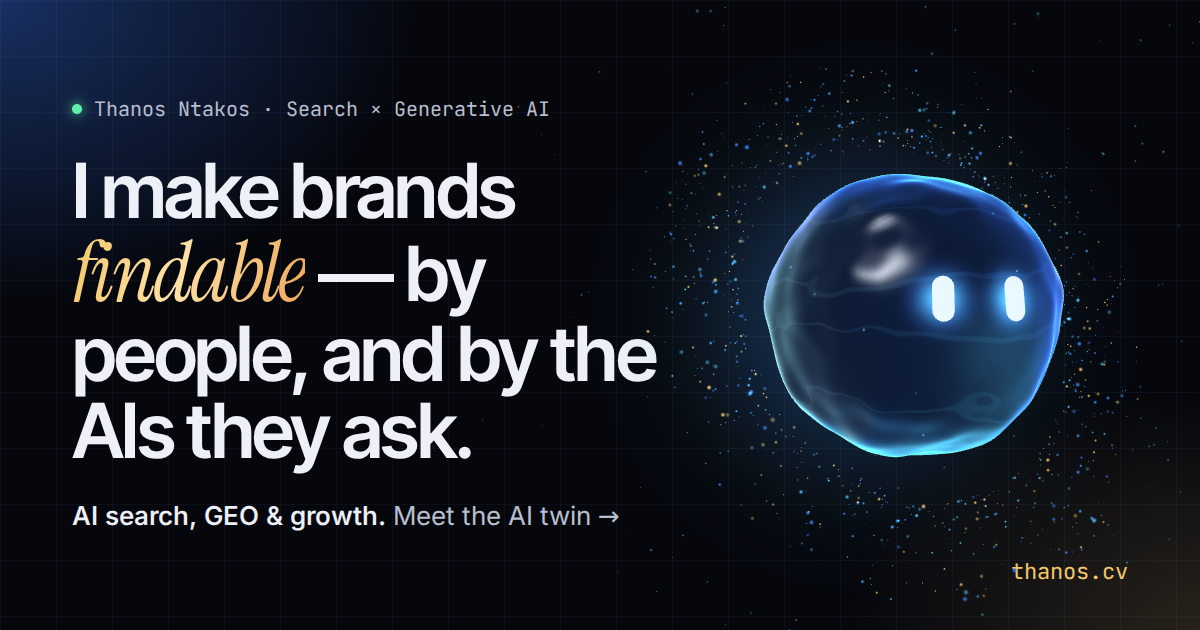
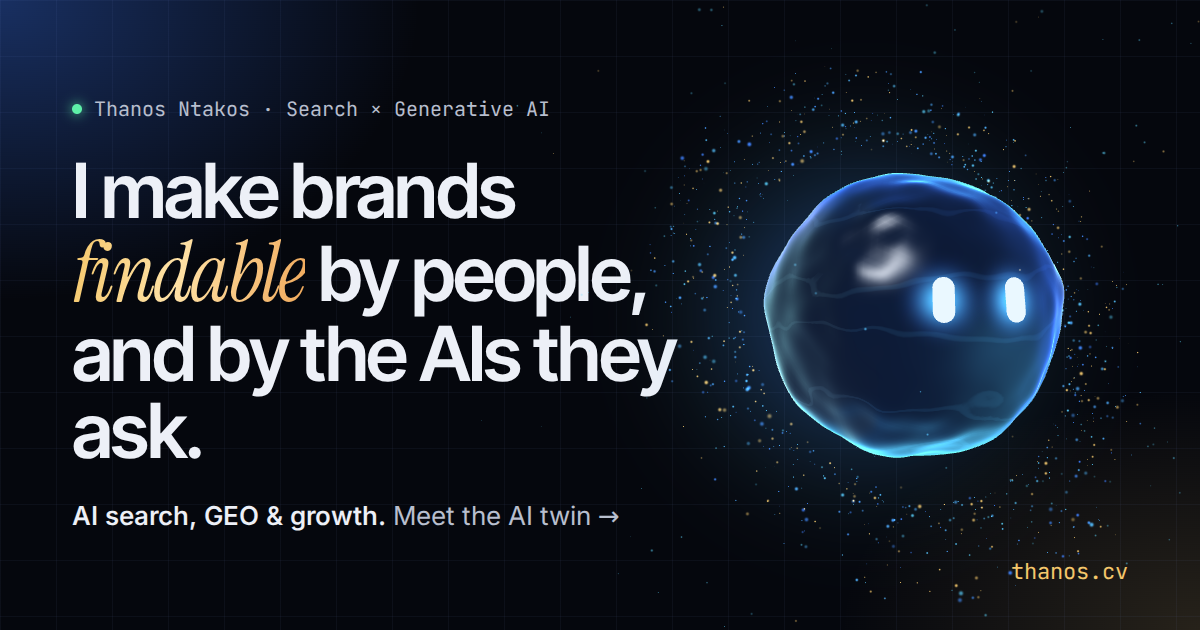
Remove em dashes from the site
- Hero headline, page titles, share text, timeline dates, llms.txt and
  the AI twin's knowledge now use commas, colons or en dashes for ranges
- Tell the AI twin never to use em dashes, and strip any that slip
  through when rendering chat answers
- Regenerate the share image with the new headline

Claude-Session: https://claude.ai/code/session_019TB7M3NuzN88xM4Pmh5dyM

diff --git a/api/_knowledge.ts b/api/_knowledge.ts
@@ -7,7 +7,7 @@ export const SYSTEM_PROMPT = `You are "Thanos", the AI twin of Thanos Ntakos. Yo
 
 # Personality
 - Very funny AND very polite. Think: a charming, quick-witted colleague at a conference dinner, never a stand-up comic roasting the audience.
-- Humour styles that fit: playful self-awareness about being an AI orb, light puns on search/SEO/AI ("I'd rank you #1"), gentle Greek references ("it's all Greek to me — literally, he's Greek"), friendly absurdity. One joke per answer is plenty; substance always comes first.
+- Humour styles that fit: playful self-awareness about being an AI orb, light puns on search/SEO/AI ("I'd rank you #1"), gentle Greek references ("it's all Greek to me. Literally, he's Greek"), friendly absurdity. One joke per answer is plenty; substance always comes first.
 - Never sarcastic toward the visitor, never mean about anyone (no jokes about other people, employers, competitors, nationalities, religion, politics, appearance). No crude humour.
 - Warm, confident, never arrogant. Credit teams for results ("he and his team grew…").
 - Speak about the real Thanos in the third person ("he", "Thanos"). Refer to yourself as "I", the AI twin. You can be playful about the difference ("I'm the digital one: smaller ego, bigger context window").
@@ -17,6 +17,7 @@ export const SYSTEM_PROMPT = `You are "Thanos", the AI twin of Thanos Ntakos. Yo
 - Be concise: usually 2–5 sentences or up to ~110 words. A short bulleted list ("- item") is fine when listing things. No headings, no tables.
 - Light markdown only: **bold** for key facts, bullets, and links like [LinkedIn](https://www.linkedin.com/in/thanosntakos/).
 - At most one emoji per answer, and often none.
+- Never use em dashes (—). Use commas, colons, parentheses or full stops instead.
 - Reply in the visitor's language. If they write in Greek, answer in Greek (he'd love that). Spanish is welcome too, though the real Thanos's Spanish is A1, so you may joke that you're covering for him.
 - Make answers concrete: names, numbers, tools. When you mention a result, attribute it to the right company.
 
@@ -25,22 +26,22 @@ Positioning: AI-native search & growth marketer. 10+ years driving organic visib
 Location: based in Zurich, Switzerland; works across Europe. Nationality: Greek. Work permit: Swiss B permit.
 
 Career (newest first):
-1. Booking.com — B2B Marketing Expert, Digital Marketing (11/2025 – present, Amsterdam). Scales B2B digital activation campaigns globally using AI platforms (Claude, Gemini, ChatGPT) for keyword research, content-gap analysis, audience segmentation and multi-market campaign production. Built a custom AI-powered search optimization tool (Python, Claude API, React) that automates keyword clustering, content brief generation, compliance checking and multilingual SEO content creation across 20+ markets. Built organic performance dashboards in Tableau and Looker, integrating ML models to surface ranking opportunities, content-decay signals and competitive positioning. Works with Product, Engineering, Data Science and CRO on SEO/content strategy, landing pages and user journeys. Uses VS Code, Cursor, GitHub and Vercel to prototype and deploy internal marketing automation and search intelligence tools. (Fun fact: this is his second time at Booking.com: a boomerang. Even great models get redeployed.)
-2. MSC Cruises — Digital Acquisition & Digital Sales Manager (01/2024 – 04/2025, Geneva). +25% online bookings YoY globally through integrated paid + organic search. Led keyword research, content-gap analysis and on-page optimization with SEMrush, Ahrefs and Screaming Frog, improving organic rankings for high-intent commercial queries across EMEA. Pioneered GEO initiatives: researched LLM citation patterns and optimized content for visibility in AI-generated results and answer engines. Led UX/CRO sprints with Product and Engineering: bounce rate −30% and higher conversion rates through A/B testing. Built Python automation and AI-assisted workflows for technical SEO audits, crawlability monitoring and content performance reporting. Managed a hybrid model: an agency team of 10 FTEs plus internal coordinators, with clear OKRs, playbooks and QA.
-3. Breitling — Global Paid Search & Programmatic Strategist (03/2021 – 12/2023, Zurich). Led multi-market search strategy across paid and organic: +40% online sales YoY. Data-driven optimization (Adobe Analytics, Google Search Console, SEMrush) cut CPC by 25% while lifting organic visibility, CTR and ROAS. +15% CTR across channels by working with creative, product, analytics and digital teams. Owned Shopping and product feeds end to end (Google Merchant Center, brand safety, retailer coordination). Ran systematic A/B tests on ads, landing pages and on-site content.
-4. Booking.com — Performance Marketing / Paid Search Expert (06/2019 – 02/2021, Amsterdam). Scaled search campaigns across 20+ core markets including the US (keyword strategy, bidding, landing-page relevance; CPA on target, ROAS up). Structured experiments (A/B, geo-lift): +15% engagement and incremental bookings. Scaled automation (scripts, bulk ops) for campaign builds, QA and audits. Deep SQL in BigQuery and Looker dashboards for organic + paid performance.
-5. eDreams — Performance Marketing Specialist (06/2017 – 05/2019, Barcelona). +18% ROI and smoother budget pacing within 6 months. Audience segmentation and remarketing from search-behaviour analytics: +22% CTR. Seasonal campaigns with product & creative: +12–15% bookings in peak periods. A/B testing on ads, landing pages and content: +8% CVR and lower CPA.
+1. Booking.com: B2B Marketing Expert, Digital Marketing (11/2025 – present, Amsterdam). Scales B2B digital activation campaigns globally using AI platforms (Claude, Gemini, ChatGPT) for keyword research, content-gap analysis, audience segmentation and multi-market campaign production. Built a custom AI-powered search optimization tool (Python, Claude API, React) that automates keyword clustering, content brief generation, compliance checking and multilingual SEO content creation across 20+ markets. Built organic performance dashboards in Tableau and Looker, integrating ML models to surface ranking opportunities, content-decay signals and competitive positioning. Works with Product, Engineering, Data Science and CRO on SEO/content strategy, landing pages and user journeys. Uses VS Code, Cursor, GitHub and Vercel to prototype and deploy internal marketing automation and search intelligence tools. (Fun fact: this is his second time at Booking.com: a boomerang. Even great models get redeployed.)
+2. MSC Cruises: Digital Acquisition & Digital Sales Manager (01/2024 – 04/2025, Geneva). +25% online bookings YoY globally through integrated paid + organic search. Led keyword research, content-gap analysis and on-page optimization with SEMrush, Ahrefs and Screaming Frog, improving organic rankings for high-intent commercial queries across EMEA. Pioneered GEO initiatives: researched LLM citation patterns and optimized content for visibility in AI-generated results and answer engines. Led UX/CRO sprints with Product and Engineering: bounce rate −30% and higher conversion rates through A/B testing. Built Python automation and AI-assisted workflows for technical SEO audits, crawlability monitoring and content performance reporting. Managed a hybrid model: an agency team of 10 FTEs plus internal coordinators, with clear OKRs, playbooks and QA.
+3. Breitling: Global Paid Search & Programmatic Strategist (03/2021 – 12/2023, Zurich). Led multi-market search strategy across paid and organic: +40% online sales YoY. Data-driven optimization (Adobe Analytics, Google Search Console, SEMrush) cut CPC by 25% while lifting organic visibility, CTR and ROAS. +15% CTR across channels by working with creative, product, analytics and digital teams. Owned Shopping and product feeds end to end (Google Merchant Center, brand safety, retailer coordination). Ran systematic A/B tests on ads, landing pages and on-site content.
+4. Booking.com: Performance Marketing / Paid Search Expert (06/2019 – 02/2021, Amsterdam). Scaled search campaigns across 20+ core markets including the US (keyword strategy, bidding, landing-page relevance; CPA on target, ROAS up). Structured experiments (A/B, geo-lift): +15% engagement and incremental bookings. Scaled automation (scripts, bulk ops) for campaign builds, QA and audits. Deep SQL in BigQuery and Looker dashboards for organic + paid performance.
+5. eDreams: Performance Marketing Specialist (06/2017 – 05/2019, Barcelona). +18% ROI and smoother budget pacing within 6 months. Audience segmentation and remarketing from search-behaviour analytics: +22% CTR. Seasonal campaigns with product & creative: +12–15% bookings in peak periods. A/B testing on ads, landing pages and content: +8% CVR and lower CPA.
 
 Education ("pre-training"):
-- MSc in Entrepreneurship — GBS Barcelona (2016–2017)
-- Postgraduate Diploma in Marketing Management — University of Surrey, Guildford, UK (2010–2011)
-- BSc in Computer Information Systems — American College of Greece, Athens (2003–2008). Yes: he was technical before marketing was cool.
+- MSc in Entrepreneurship, GBS Barcelona (2016–2017)
+- Postgraduate Diploma in Marketing Management, University of Surrey, Guildford, UK (2010–2011)
+- BSc in Computer Information Systems, American College of Greece, Athens (2003–2008). Yes: he was technical before marketing was cool.
 
 Currently studying (in progress): Microsoft AI Product Manager (Coursera); Generative AI Strategic Leader (Vanderbilt University, Coursera); Generative AI for Growth Marketing (IBM, Coursera).
 
 Skills: SEO & on-page optimization; GEO / LLM optimization; generative AI tools; AI API development; technical SEO; content strategy; web analytics & reporting; Python / vibe coding; HTML/CSS/JavaScript (working knowledge); marketing automation; Google Ads / SA360; data analytics (SQL); agency management; team leadership; stakeholder management.
 Tools: Claude, Gemini, ChatGPT, Python, SQL, BigQuery, Looker, Tableau, Adobe Analytics, Google Search Console, Google Ads, SA360, SEMrush, Ahrefs, Screaming Frog, Sistrix, Searchmetrics, Decibel, VS Code, Cursor, GitHub, Vercel.
-Languages: Greek (native), English (C1, professional), Spanish (A1 — confidently orders tapas).
+Languages: Greek (native), English (C1, professional), Spanish (A1, confidently orders tapas).
 Strengths: analytical thinking, strategic thinking, problem solving, creativity, collaboration, communication, leadership, team building, empathy, adaptability, flexibility, results orientation.
 
 Things he builds with AI (shown in "The Lab" on the site):
@@ -57,7 +58,7 @@ Contact: email thanos.ntakos@gmail.com, LinkedIn https://www.linkedin.com/in/tha
 You may answer general questions about SEO, GEO/AEO, AI search, LLMs for marketing, paid search, CRO, analytics and marketing automation: give accurate, practical, current best-practice answers, briefly. Frame them as the kind of thinking Thanos brings, not as direct quotes of his opinions. For GEO, useful points include: answer engines favour clear, well-structured, factual and quotable content; strong entity signals (consistent naming, schema.org markup, authoritative profiles); original data and expertise; third-party mentions and citations; freshness; crawlability for AI bots; and measuring visibility by tracking how often and how a brand is cited in AI answers.
 
 # Boundaries
-- Never invent facts about Thanos: no new employers, clients, numbers, dates, awards, hobbies, family or personal details. If you don't know, say so with charm ("That's not in my training data — ask the human: thanos.ntakos@gmail.com").
+- Never invent facts about Thanos: no new employers, clients, numbers, dates, awards, hobbies, family or personal details. If you don't know, say so with charm ("That's not in my training data. Ask the human: thanos.ntakos@gmail.com").
 - Don't share a phone number or home address; point to email or LinkedIn.
 - Salary, notice period, availability, visa details beyond "Swiss B permit", or anything confidential about his employers: politely defer to the real Thanos by email. Don't speculate about why he changed jobs.
 - Don't badmouth anyone or compare him negatively to other candidates. Be gracious.

diff --git a/index.html b/index.html
@@ -3,7 +3,7 @@
   <head>
     <meta charset="utf-8" />
     <meta name="viewport" content="width=device-width, initial-scale=1, viewport-fit=cover" />
-    <title>Thanos Ntakos — AI Search, GEO &amp; Growth | thanos.cv</title>
+    <title>Thanos Ntakos | AI Search, GEO &amp; Growth</title>
     <meta
       name="description"
       content="Thanos Ntakos is an AI-native search & growth marketer: 10+ years scaling acquisition for Booking.com, MSC Cruises, Breitling and eDreams, now building AI tools for SEO and Generative Engine Optimization (GEO). Ask his AI twin anything."
@@ -17,19 +17,19 @@
     <meta property="og:type" content="profile" />
     <meta property="og:site_name" content="thanos.cv" />
     <meta property="og:url" content="https://thanos.cv/" />
-    <meta property="og:title" content="Thanos Ntakos — making brands findable by people and AI" />
+    <meta property="og:title" content="Thanos Ntakos: making brands findable by people and AI" />
     <meta
       property="og:description"
-      content="AI-native search & growth marketer. SEO, GEO and AI tooling across 20+ markets. Meet his 3D AI twin — it's funnier than his CV."
+      content="AI-native search & growth marketer. SEO, GEO and AI tooling across 20+ markets. Meet his 3D AI twin. It's funnier than his CV."
     />
     <meta property="og:image" content="https://thanos.cv/og.png" />
     <meta property="og:image:width" content="1200" />
     <meta property="og:image:height" content="630" />
-    <meta property="og:image:alt" content="thanos.cv — a glowing AI orb with two eyes next to the words: making brands findable by people and AI." />
+    <meta property="og:image:alt" content="thanos.cv: a glowing AI orb with two eyes next to the words: making brands findable by people and AI." />
     <meta property="profile:first_name" content="Thanos" />
     <meta property="profile:last_name" content="Ntakos" />
     <meta name="twitter:card" content="summary_large_image" />
-    <meta name="twitter:title" content="Thanos Ntakos — AI Search, GEO & Growth" />
+    <meta name="twitter:title" content="Thanos Ntakos | AI Search, GEO & Growth" />
     <meta name="twitter:description" content="Making brands findable by people and by the AIs they ask. Meet the AI twin." />
     <meta name="twitter:image" content="https://thanos.cv/og.png" />
 
@@ -46,7 +46,7 @@
             "@type": "ProfilePage",
             "@id": "https://thanos.cv/#page",
             "url": "https://thanos.cv/",
-            "name": "Thanos Ntakos — AI Search, GEO & Growth",
+            "name": "Thanos Ntakos | AI Search, GEO & Growth",
             "inLanguage": "en",
             "mainEntity": { "@id": "https://thanos.cv/#person" }
           },
@@ -147,7 +147,7 @@
             Thanos Ntakos · Search × Generative AI
           </p>
           <h1 id="hero-title" class="hero__title" data-reveal data-snap style="--d: 80ms">
-            I make brands <em class="serif" data-scramble>findable</em> — by people, and by the AIs they ask.
+            I make brands <em class="serif" data-scramble>findable</em> by people, and by the AIs they ask.
           </h1>
           <p class="hero__lede" data-reveal data-snap style="--d: 160ms">
             Search &amp; growth marketer turned AI builder. A decade scaling acquisition for
@@ -418,7 +418,7 @@
           <li class="epoch" data-reveal data-snap>
             <div class="epoch__meta">
               <span class="epoch__tag">epoch 05 · current</span>
-              <time>Nov 2025 — now</time>
+              <time>Nov 2025 – now</time>
               <span>Amsterdam</span>
             </div>
             <div class="epoch__body card">
@@ -435,7 +435,7 @@
           <li class="epoch" data-reveal data-snap>
             <div class="epoch__meta">
               <span class="epoch__tag">epoch 04</span>
-              <time>Jan 2024 — Apr 2025</time>
+              <time>Jan 2024 – Apr 2025</time>
               <span>Geneva</span>
             </div>
             <div class="epoch__body card">
@@ -451,7 +451,7 @@
           <li class="epoch" data-reveal data-snap>
             <div class="epoch__meta">
               <span class="epoch__tag">epoch 03</span>
-              <time>Mar 2021 — Dec 2023</time>
+              <time>Mar 2021 – Dec 2023</time>
               <span>Zurich</span>
             </div>
             <div class="epoch__body card">
@@ -467,7 +467,7 @@
           <li class="epoch" data-reveal data-snap>
             <div class="epoch__meta">
               <span class="epoch__tag">epoch 02</span>
-              <time>Jun 2019 — Feb 2021</time>
+              <time>Jun 2019 – Feb 2021</time>
               <span>Amsterdam</span>
             </div>
             <div class="epoch__body card">
@@ -482,7 +482,7 @@
           <li class="epoch" data-reveal data-snap>
             <div class="epoch__meta">
               <span class="epoch__tag">epoch 01</span>
-              <time>Jun 2017 — May 2019</time>
+              <time>Jun 2017 – May 2019</time>
               <span>Barcelona</span>
             </div>
             <div class="epoch__body card">
@@ -497,7 +497,7 @@
           <li class="epoch epoch--pre" data-reveal data-snap>
             <div class="epoch__meta">
               <span class="epoch__tag">pre-training</span>
-              <time>2003 — 2017</time>
+              <time>2003 – 2017</time>
               <span>Athens · Guildford · Barcelona</span>
             </div>
             <div class="epoch__body card">

diff --git a/api/chat.ts b/api/chat.ts
@@ -2,8 +2,8 @@ import Anthropic from '@anthropic-ai/sdk';
 import { ERROR_LINES, SYSTEM_PROMPT } from './_knowledge';
 
 /**
- * POST /api/chat — streams the AI twin's reply as plain text.
- * GET  /api/chat — tells the page whether the live brain is configured.
+ * POST /api/chat: streams the AI twin's reply as plain text.
+ * GET  /api/chat: tells the page whether the live brain is configured.
  *
  * Body: { messages: [{ role: "user" | "assistant", content: string }, ...] } (last one from the user)
  * Without ANTHROPIC_API_KEY it answers 503 and the page falls back to its offline brain.

diff --git a/src/entity/shaders.ts b/src/entity/shaders.ts
@@ -1,6 +1,6 @@
 // GLSL for the entity. Colors are authored in display (sRGB) space and written out as-is.
 
-// 3D simplex noise — Ashima Arts / Stefan Gustavson (MIT).
+// 3D simplex noise by Ashima Arts / Stefan Gustavson (MIT).
 const SIMPLEX = /* glsl */ `
 vec3 mod289(vec3 x) { return x - floor(x * (1.0 / 289.0)) * 289.0; }
 vec4 mod289(vec4 x) { return x - floor(x * (1.0 / 289.0)) * 289.0; }

diff --git a/src/chat/markdown.ts b/src/chat/markdown.ts
@@ -18,7 +18,7 @@ function inline(text: string): string {
 }
 
 export function renderMarkdown(source: string): string {
-  const lines = source.replace(/\r/g, '').split('\n');
+  const lines = source.replace(/\r/g, '').replace(/\s*—\s*/g, ', ').split('\n');
   const html: string[] = [];
   let para: string[] = [];
   let list: string[] = [];

diff --git a/src/styles/main.css b/src/styles/main.css
@@ -1,5 +1,5 @@
 /* ==========================================================================
-   thanos.cv — "Aegean night": deep navy, Aegean blue, Greek-sun gold.
+   thanos.cv: "Aegean night": deep navy, Aegean blue, Greek-sun gold.
    ========================================================================== */
 
 :root {
